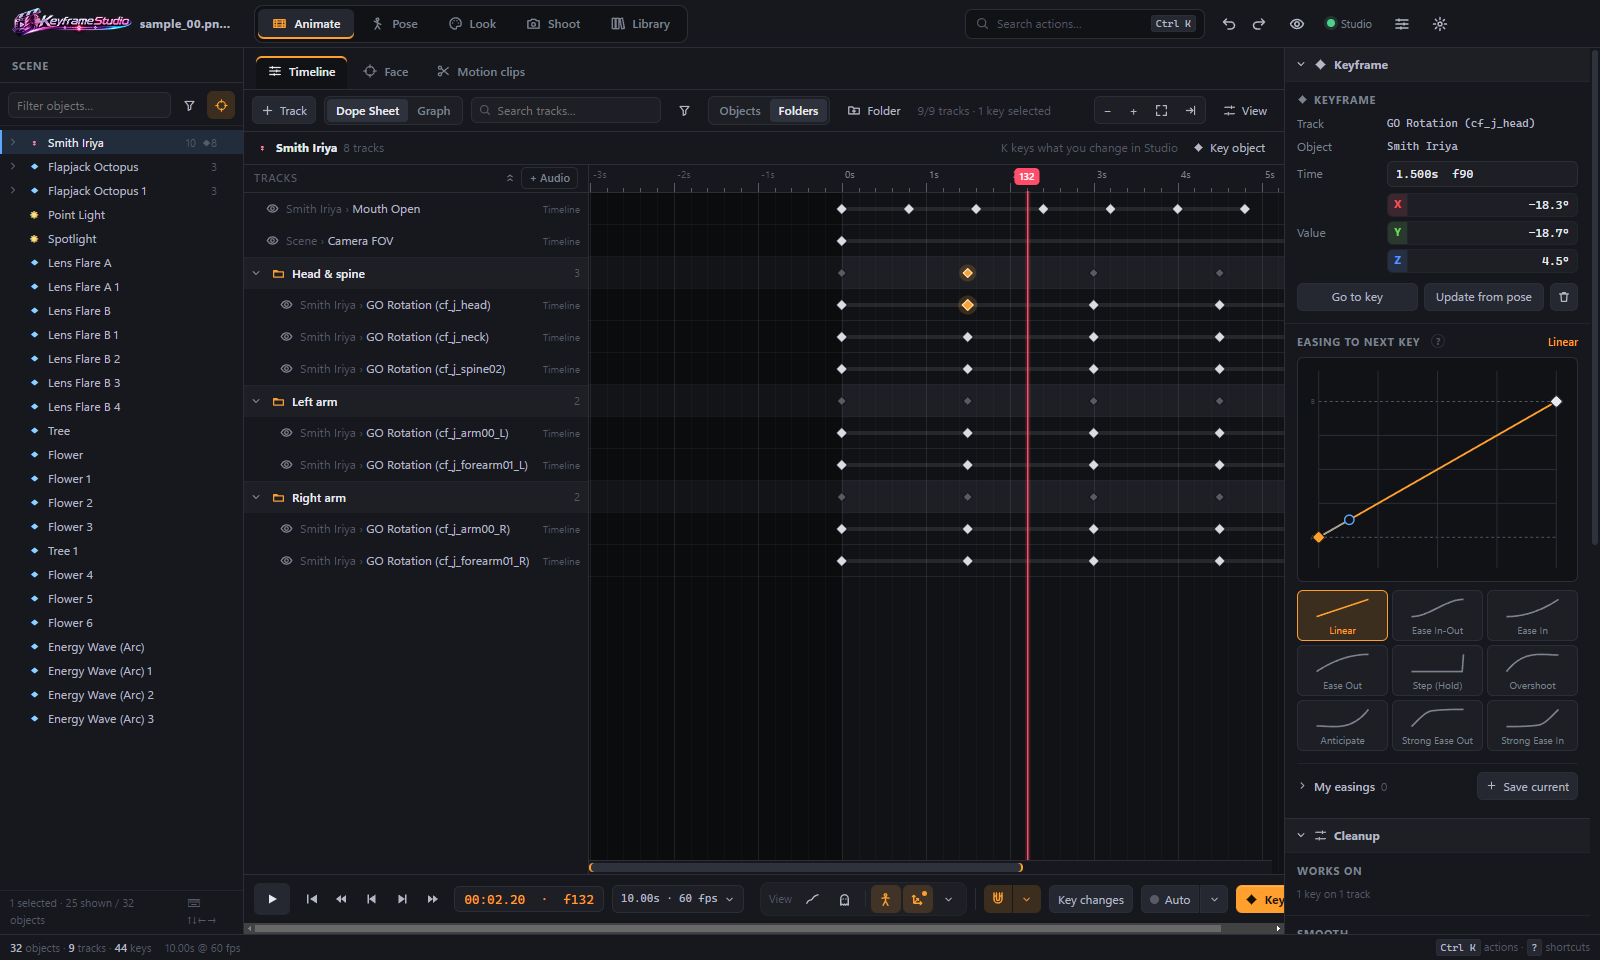
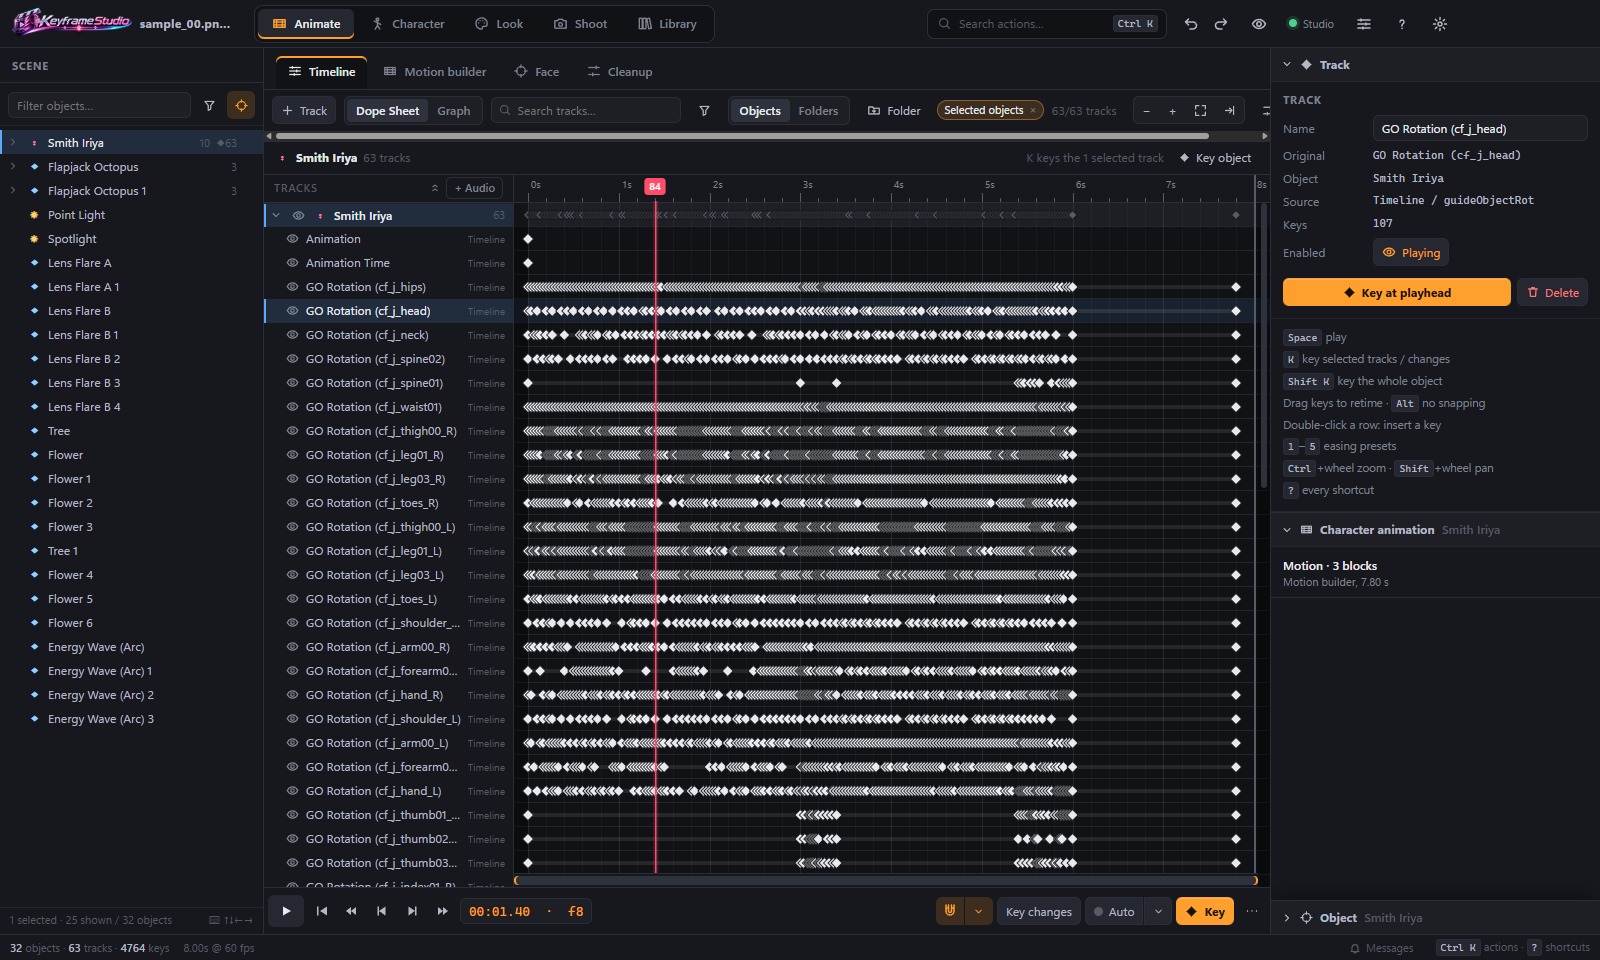
Version 0.1.5
README screenshots retaken with the new layout: Animate, graph, Face, Motion builder,
Look › Picture and Shoot › Output.

diff --git a/plugin/StudioBridge/src/StudioBridgePlugin.cs b/plugin/StudioBridge/src/StudioBridgePlugin.cs
@@ -17,7 +17,7 @@ namespace StudioEX.Bridge
     {
         public const string GUID = "studioex.bridge";
         public const string Name = "Keyframe Studio Bridge";
-        public const string Version = "0.1.4";
+        public const string Version = "0.1.5";
         public const int ProtocolVersion = 1;
         internal const string TimelineGuid = "com.joan6694.illusionplugins.timeline";
 

diff --git a/README.md b/README.md
@@ -16,7 +16,7 @@
 </p>
 
 <p align="center">
-  <img src="docs/images/app-animate.png" alt="Keyframe Studio: the Animate workspace with folders of bone tracks, keys and the keyframe panel" width="900">
+  <img src="docs/images/app-animate.png" alt="Keyframe Studio: the Animate workspace with a character's bone tracks and keys, and the selected track on the right" width="900">
 </p>
 
 > **Beta.** Keyframe Studio works and is tested against a live CharaStudio, but it's new — expect rough edges.
@@ -67,14 +67,14 @@ paths and onion-skin ghosts, folders (an eye mutes a whole folder or object), se
 <table>
   <tr>
     <td width="50%"><img src="docs/images/app-face.png" alt="Animate › Face: expressions keyed at the playhead with a close-up"></td>
-    <td width="50%"><img src="docs/images/app-look-effects.png" alt="Look › Picture: Studio's settings and Keyframe Studio's effects, grouped into colour, lens and atmosphere"></td>
+    <td width="50%"><img src="docs/images/app-look-picture.png" alt="Look › Picture: Studio's settings and Keyframe Studio's effects, grouped into colour, lens and atmosphere"></td>
   </tr>
   <tr>
     <td><b>Face</b> — expressions keyed at the playhead, lip-sync from audio with vowel shapes, natural blinks.</td>
     <td><b>Look</b> — every render setting, built-in effects (fog, colour, depth of field, grain…), materials, lighting rigs, presets.</td>
   </tr>
   <tr>
-    <td><img src="docs/images/app-render.png" alt="Shoot › Output: a video's sizes, frame rate, file type and framing"></td>
+    <td><img src="docs/images/app-output.png" alt="Shoot › Output: a video's sizes, frame rate, file type and framing"></td>
     <td><img src="docs/images/app-view-options.png" alt="The View options: overlays, handles, paths and ghosts"></td>
   </tr>
   <tr>
